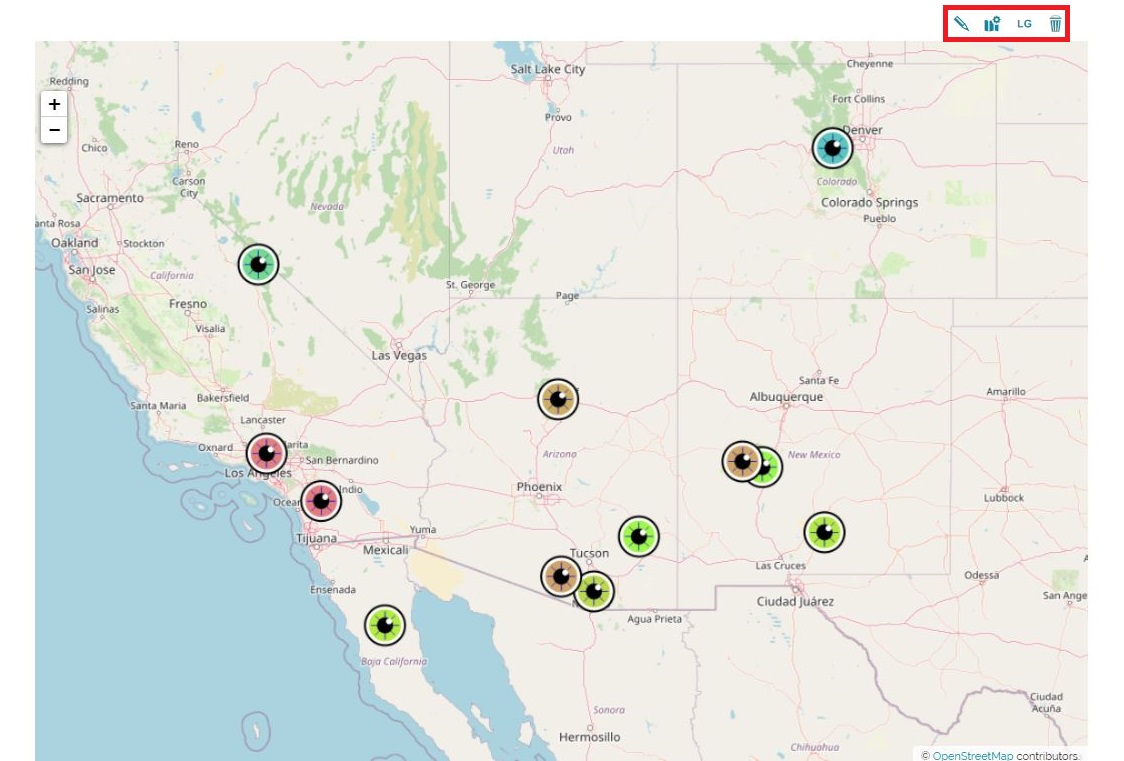
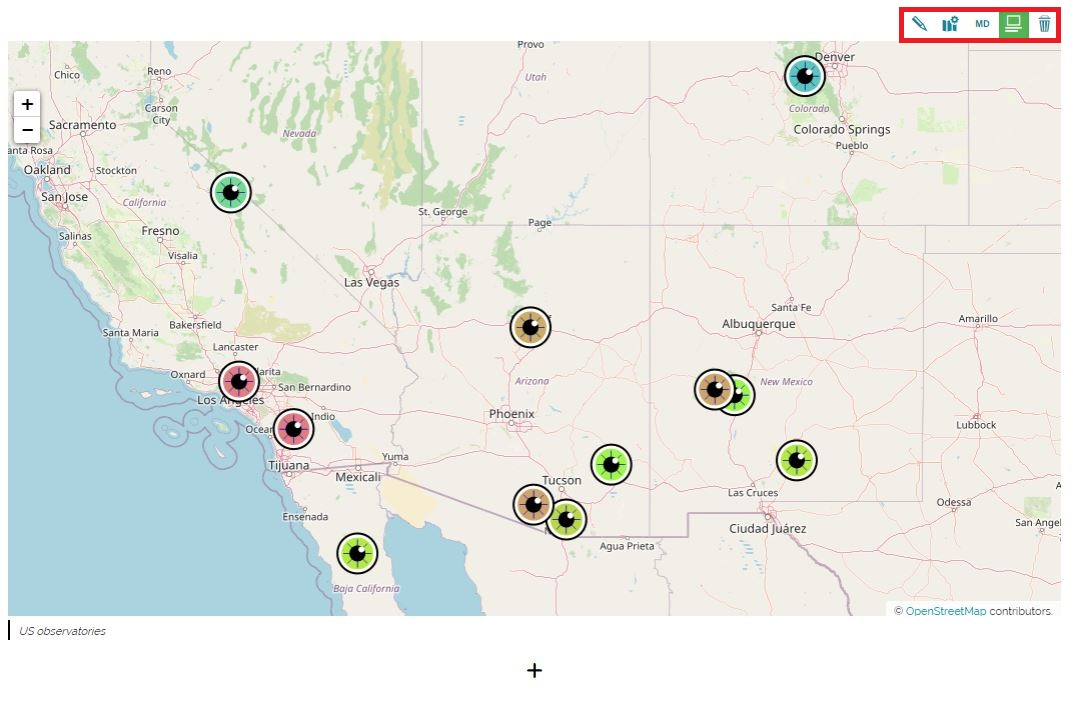
5101_second_updating_storyguide

diff --git a/docs/user-guide/content-image-toolbar.md b/docs/user-guide/content-image-toolbar.md
@@ -11,4 +11,6 @@ Through this toolbar, the story editor is able to perform the following operatio
 
 * **Change size** <img src="../img/button/change-size2.jpg" class="ms-docbutton"/> choosing between *Small*, *Medium*, *Large*
 
-* **Remove** <img src="../img/button/remove2.jpg" class="ms-docbutton"/> the image content
+* **Hide caption** button <img src="../img/button/hide-caption.jpg" class="ms-docbutton"/> to show/hide the description under the image. (It is available if the description is added to the image on the [Media Editor](media-editor-window.md))
+
+* **Remove** <img src="../img/button/remove2.jpg" class="ms-docbutton"/> the image content 

diff --git a/docs/user-guide/content-video-toolbar.md b/docs/user-guide/content-video-toolbar.md
@@ -15,6 +15,8 @@ Through this toolbar, the story editor is able to perform the following operatio
 
 * **Enable Loop** <img src="../img/button/loop-botton.jpg" class="ms-docbutton"/> to continuously repeat the video
 
+* **Hide caption** button <img src="../img/button/hide-caption.jpg" class="ms-docbutton"/> to show/hide the description under the image. (It is available if the description is added to the image on the [Media Editor](media-editor-window.md))
+
 * **Remove** <img src="../img/button/remove2.jpg" class="ms-docbutton"/> the video content
 
 !!! note

diff --git a/docs/user-guide/content-map-toolbar.md b/docs/user-guide/content-map-toolbar.md
@@ -13,4 +13,6 @@ In particular, through this toolbar, the story editor is able to perform the fol
 
 * **Change size** <img src="../img/button/change-size2.jpg" class="ms-docbutton"/> choosing between *Small*, *Medium*, *Large*
 
+* **Hide caption** button <img src="../img/button/hide-caption.jpg" class="ms-docbutton"/> to show/hide the description under the image. (It is available if the description is added to the image on the [Media Editor](media-editor-window.md))
+
 * **Remove** <img src="../img/button/remove2.jpg" class="ms-docbutton"/> the map content
